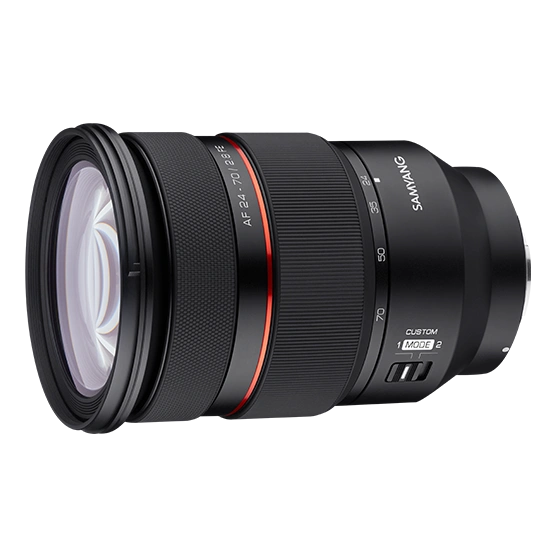
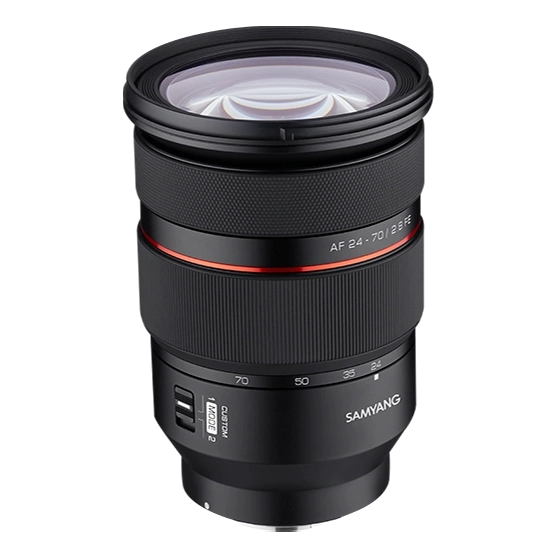
Doladění gearCards

diff --git a/src/components/GearCard.jsx b/src/components/GearCard.jsx
@@ -1,15 +1,9 @@
-const GearCard = ({ heading, image, rotate }) => {
+const GearCard = ({ heading, image }) => {
   return (
-    <div className="border w-100 h-115 flex flex-col items-center gap-8 justify-end p-6">
+    <div className="border-3 border-neutral-500/20 bg-radial from-neutral-900 to-transparent rounded-4xl p-8 w-100 min-h-90 flex flex-col items-center justify-end gap-8">
       
-        <div className="w-full flex-1 flex items-center justify-center">
-          <img
-            src={image}
-            alt={heading}
-            className={`object-contain ${
-              rotate ? "rotate-90" : ""
-            }`}
-          />
+        <div className="w-full flex items-center justify-center">
+          <img src={image} alt={heading} />
         </div>
 
         <h4>{heading}</h4>

diff --git a/src/pages/Gear.jsx b/src/pages/Gear.jsx
@@ -29,7 +29,7 @@ const Gear = () => {
           <GearHeading heading="lenses" />
 
           {/* CONTAINER S GEAR CARDS */}
-          <div className="w-full flex gap-4 mt-8 mb-24 flex-wrap">
+          <div className="w-full flex gap-4 mt-8 flex-wrap">
               <GearCard heading={gear[1].heading} image={gear[1].image} rotate />
               <GearCard heading={gear[2].heading} image={gear[2].image} rotate />
               <GearCard heading={gear[3].heading} image={gear[3].image} rotate />
